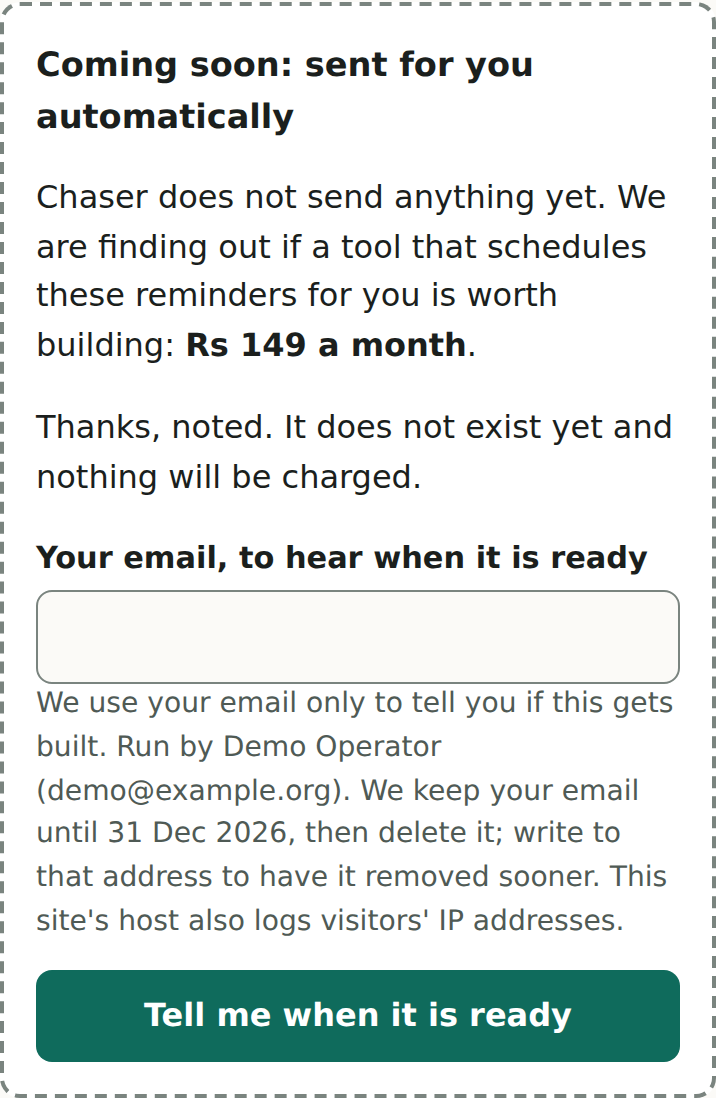
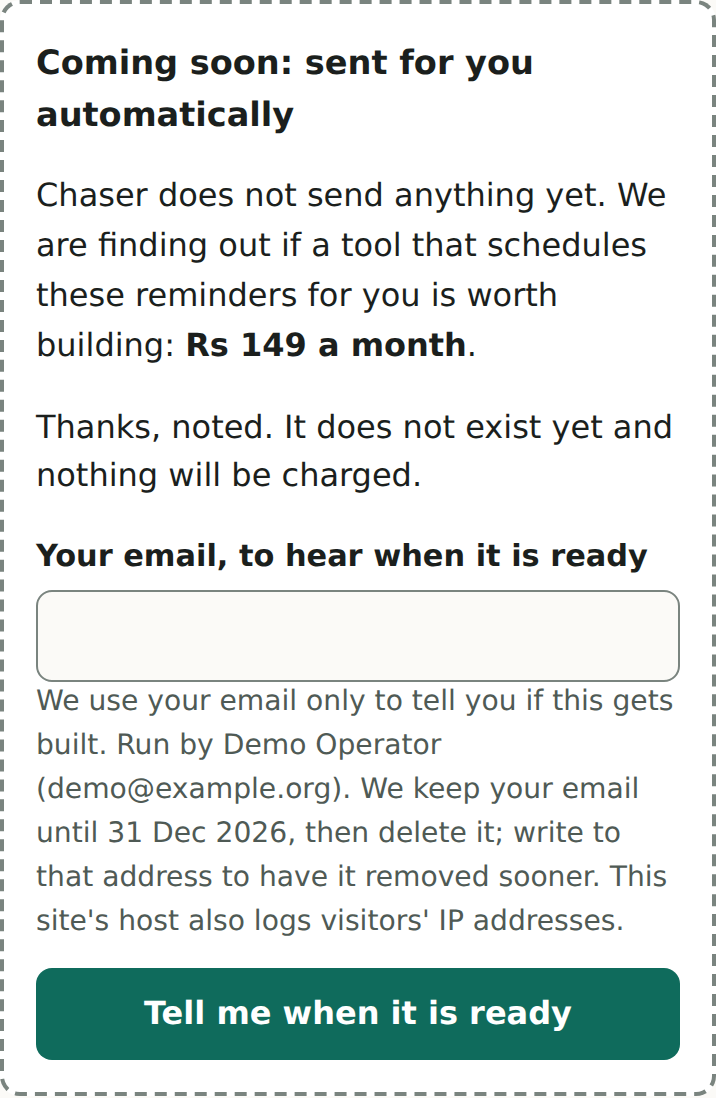
Chaser: designer pass, foundation and product gates closed (#8)
* chaser: foundation gates closed with evidence, product gates 8 of 9

Claude-Session: https://claude.ai/code/session_01KHRvdBp9dNMhM5LyW9cT2y

* chaser: before screenshots from the pre-critique build, for the designer pass

Claude-Session: https://claude.ai/code/session_01KHRvdBp9dNMhM5LyW9cT2y

* chaser: designer pass round two: rupee sign, copy email, focus after the paid-plan question, hint moved up

Claude-Session: https://claude.ai/code/session_01KHRvdBp9dNMhM5LyW9cT2y

* chaser: short-name greeting, Polite only when not yet due, confirm before replacing edits, suggested card first

Claude-Session: https://claude.ai/code/session_01KHRvdBp9dNMhM5LyW9cT2y

---------

diff --git a/examples/chaser/e2e/ui.e2e.js b/examples/chaser/e2e/ui.e2e.js
@@ -57,10 +57,10 @@ test("happy path: three messages with the right amount, dates and working send l
   const polite = await page.locator("#wa-polite").inputValue();
   assert.match(polite, /^Hi Ravi Traders,/);
   assert.match(polite, /Rs 1,25,000\.50/);
-  const href = await page.locator("article.msg").first().getByRole("link", { name: "Open in WhatsApp" }).getAttribute("href");
+  const href = await page.locator("article.msg:has(#wa-polite)").getByRole("link", { name: "Open in WhatsApp" }).getAttribute("href");
   assert.ok(href.startsWith("https://wa.me/?text="));
   assert.equal(decodeURIComponent(href.slice(20)), polite);
-  const link = page.locator("article.msg").first().getByRole("link", { name: "Open in WhatsApp" });
+  const link = page.locator("article.msg:has(#wa-polite)").getByRole("link", { name: "Open in WhatsApp" });
   assert.equal(await link.getAttribute("rel"), "noopener noreferrer");
   assert.equal(await link.getAttribute("target"), "_blank");
   assert.match(await page.locator("#wa-final").inputValue(), /pay further work|pause further work/);
@@ -74,11 +74,12 @@ test("results: the suggested message is marked, every message is fully visible, 
   await page.locator("#results").waitFor();
   assert.match(await page.locator("#summary").innerText(), /Suggested: start with Firm/);
   const cards = page.locator("article.msg");
-  assert.equal(await cards.nth(1).getAttribute("class"), "card msg suggested");
-  assert.equal(await cards.nth(1).locator(".tag").innerText(), "Suggested");
+  assert.equal(await cards.nth(0).getAttribute("class"), "card msg suggested", "the suggested message comes first");
+  assert.equal(await cards.nth(0).locator("textarea").getAttribute("id"), "wa-firm");
+  assert.equal(await cards.nth(0).locator(".tag").innerText(), "Suggested");
   assert.equal(await page.locator(".tag").count(), 1);
   assert.equal(await page.locator("article.msg a.btn:not(.quiet)").count() >= 1, true);
-  assert.equal(await cards.nth(0).getByRole("link", { name: "Open in WhatsApp" }).getAttribute("class"), "btn quiet");
+  assert.equal(await cards.nth(1).getByRole("link", { name: "Open in WhatsApp" }).getAttribute("class"), "btn quiet");
   for (const id of ["wa-polite", "wa-firm", "wa-final"]) {
     const clipped = await page.locator("#" + id).evaluate((t) => t.scrollHeight > t.clientHeight + 2);
     assert.equal(clipped, false, `${id} is cut off`);
@@ -101,8 +102,45 @@ test("editing a message updates its WhatsApp link", async () => {
   const { context, page } = await newPage();
   await generate(page);
   await page.locator("#wa-firm").fill("My own words, Rs 5 only");
-  const href = await page.locator("article.msg").nth(1).getByRole("link", { name: "Open in WhatsApp" }).getAttribute("href");
+  const href = await page.locator("article.msg:has(#wa-firm)").getByRole("link", { name: "Open in WhatsApp" }).getAttribute("href");
   assert.equal(decodeURIComponent(href.slice(20)), "My own words, Rs 5 only");
+  await context.close();
+});
+
+test("review fixes: a rupee sign is accepted, the email text can be copied, and focus moves to the answer after the paid-plan question", async () => {
+  const { context, page } = await newPage(open, { permissions: ["clipboard-read", "clipboard-write"] });
+  await generate(page, { amount: "\u20b925,000" });
+  assert.match(await page.locator("#check").innerText(), /Rs 25,000/);
+  const card = page.locator("article.msg:has(#wa-firm)");
+  await card.locator("summary").click();
+  await card.getByRole("button", { name: /Copy the firm email/ }).click();
+  const copied = await page.evaluate(() => navigator.clipboard.readText());
+  assert.match(copied, /^Subject: .+\n\n[\s\S]*Rs 25,000/);
+  await page.getByRole("button", { name: "I would pay for this" }).click();
+  assert.equal(await page.evaluate(() => document.activeElement?.id), "door-thanks");
+  await context.close();
+});
+
+test("review fixes 2: the greeting can use a short name; an invoice not yet due shows Polite and keeps the rest behind a button; edits are not replaced without asking", async () => {
+  const { context, page } = await newPage();
+  await generate(page, { call: "Ravi", due: shift(5) });
+  assert.match(await page.locator("#wa-polite").inputValue(), /^Hi Ravi,/);
+  assert.equal(await page.locator("#later").isHidden(), true, "firm and final wait behind a button");
+  assert.equal(await page.locator("article.msg:visible").count(), 1);
+  await page.getByRole("button", { name: "Show the firm and final messages" }).click();
+  assert.equal(await page.locator("article.msg:visible").count(), 3);
+  assert.equal(await page.evaluate(() => document.activeElement.tagName), "TEXTAREA");
+  // an edited message is not thrown away silently
+  await page.locator("#wa-polite").fill("My own words");
+  let asked = 0;
+  page.once("dialog", (d) => { asked++; d.dismiss(); });
+  await page.getByRole("button", { name: "Write my messages" }).click();
+  assert.equal(asked, 1);
+  assert.equal(await page.locator("#wa-polite").inputValue(), "My own words", "Cancel keeps the edit");
+  page.once("dialog", (d) => { asked++; d.accept(); });
+  await page.getByRole("button", { name: "Write my messages" }).click();
+  assert.equal(asked, 2);
+  assert.match(await page.locator("#wa-polite").inputValue(), /^Hi Ravi,/, "OK writes fresh messages");
   await context.close();
 });
 
@@ -244,7 +282,7 @@ test("only the keyboard: fill every field by typing, submit, reach copy and send
   const mdy = (iso) => { const [y, m, d] = iso.split("-"); return m + d + y; };
   await page.locator("#me").focus();
   const order = [];
-  for (const [id, text] of [["me", "Asha"], ["client", "Ravi"], ["amount", "5000"], ["invoice", ""], ["due", mdy(shift(-3))], ["deadline", mdy(shift(5))], ["pay", ""]]) {
+  for (const [id, text] of [["me", "Asha"], ["client", "Ravi"], ["call", ""], ["amount", "5000"], ["invoice", ""], ["due", mdy(shift(-3))], ["deadline", mdy(shift(5))], ["pay", ""]]) {
     assert.equal(await page.evaluate(() => document.activeElement.id), id, `focus should be on ${id}`);
     order.push(id);
     if (text) await page.keyboard.type(text);
@@ -252,7 +290,7 @@ test("only the keyboard: fill every field by typing, submit, reach copy and send
     // a date field has month, day and year parts: after typing all three, one more Tab leaves it
     if ((id === "due" || id === "deadline") && (await page.evaluate(() => document.activeElement.id)) === id) await page.keyboard.press("Tab");
   }
-  assert.deepEqual(order, ["me", "client", "amount", "invoice", "due", "deadline", "pay"]);
+  assert.deepEqual(order, ["me", "client", "call", "amount", "invoice", "due", "deadline", "pay"]);
   assert.equal(await page.evaluate(() => document.activeElement.textContent), "Write my messages");
   await page.keyboard.press("Enter");
   await page.locator("#results").waitFor();

diff --git a/examples/chaser/public/app.js b/examples/chaser/public/app.js
@@ -3,7 +3,7 @@ import { validateInput, generateMessages, whatsappLink, mailtoLink, formatRupees
 const $ = (id) => document.getElementById(id);
 const params = new URLSearchParams(location.search);
 const src = params.get("src") ?? undefined;
-const FIELDS = ["me", "client", "amount", "invoice", "due", "deadline", "pay"];
+const FIELDS = ["me", "client", "call", "amount", "invoice", "due", "deadline", "pay"];
 /** Which message fits today: a few days late, about two weeks late, or well past that. Only a suggestion. */
 const suggest = (days) => (days <= 0 ? "polite" : days <= 7 ? "polite" : days <= 21 ? "firm" : "final");
 const WHEN = {
@@ -75,6 +75,7 @@ $("form").addEventListener("submit", (e) => {
   const result = validateInput(readForm(), today);
   showErrors(result.errors);
   if (!result.ok) return;
+  if ($("messages").querySelector("textarea[data-edited]") && !confirm("Writing the messages again will replace the changes you made to them. Continue?")) return;
   render(result.value, today);
   track("generate");
 });
@@ -93,13 +94,21 @@ function render(v, today) {
   const label = out.messages.find((m) => m.tone === best).label;
   $("summary").textContent = out.overdue
     ? `This invoice is ${out.days} day${out.days === 1 ? "" : "s"} overdue (counted from today's date on your device). Suggested: start with ${label}.`
-    : "This invoice is not overdue yet, so the polite message fits best. Keep the firm and final ones for later.";
+    : "This invoice is not overdue yet, so the polite message fits best. The firm and final ones are below, for later.";
   const check = $("check"); check.textContent = "";
   const rows = [["Client", v.client], ["Amount", formatRupees(v.paise)], ["Due date", formatDate(v.due)], ["Pay-by date (final message)", formatDate(v.deadline)], ["Pay to", v.pay || "No payment details added"]];
   for (const [k, val] of rows) check.append(el("dt", { text: k }), el("dd", { text: val }));
 
   const box = $("messages"); box.textContent = "";
-  for (const m of out.messages) box.append(messageCard(m, m.tone === best));
+  // The suggested message comes first; when nothing is overdue the other two wait behind a button.
+  const ordered = [...out.messages.filter((m) => m.tone === best), ...out.messages.filter((m) => m.tone !== best)];
+  const later = out.overdue ? null : el("div", { id: "later", hidden: "" });
+  ordered.forEach((m, i) => (later && i > 0 ? later : box).append(messageCard(m, m.tone === best)));
+  if (later) {
+    const show = el("button", { type: "button", class: "secondary", "aria-controls": "later", "aria-expanded": "false", text: "Show the firm and final messages" });
+    show.addEventListener("click", () => { later.hidden = false; show.hidden = true; later.querySelector("textarea").focus(); });
+    box.append(show, later);
+  }
   const results = $("results"); results.hidden = false;
   results.focus(); results.scrollIntoView({ behavior: matchMedia("(prefers-reduced-motion: reduce)").matches ? "auto" : "smooth", block: "start" });
 }
@@ -109,7 +118,7 @@ function messageCard(m, suggested) {
   const ta = el("textarea", { id: `wa-${m.tone}`, "aria-label": `${m.label} message for WhatsApp, you can edit it`, spellcheck: "true" });
   ta.value = m.whatsapp;
   const wa = el("a", { class: suggested ? "btn" : "btn quiet", href: whatsappLink(m.whatsapp), target: "_blank", rel: "noopener noreferrer", text: "Open in WhatsApp" });
-  ta.addEventListener("input", () => { wa.href = whatsappLink(ta.value); grow(ta); });
+  ta.addEventListener("input", () => { wa.href = whatsappLink(ta.value); grow(ta); ta.dataset.edited = "1"; });
   const copy = el("button", { type: "button", class: "secondary", text: "Copy text" });
   const asked = el("p", { class: "sent", hidden: "" });
   const askSent = () => {
@@ -130,11 +139,17 @@ function messageCard(m, suggested) {
 
   const mail = el("a", { class: "btn", href: mailtoLink(m.email), text: "Open in email" });
   mail.addEventListener("click", () => { track("open_email", m.tone); askSent(); });
+  const copyMail = el("button", { type: "button", class: "secondary", text: "Copy email", "aria-label": `Copy the ${m.label.toLowerCase()} email, subject and text` });
+  copyMail.addEventListener("click", async () => {
+    try { await navigator.clipboard.writeText(`Subject: ${m.email.subject}\n\n${m.email.body}`); say(`${m.label} email copied.`); }
+    catch { say("Copying is blocked here. Select the email text and copy it with your keyboard."); }
+    track("copy", m.tone);
+  });
   const details = el("details", { class: "email" },
     el("summary", { text: "Email version" }),
     el("p", {}, el("strong", { text: "Subject: " }), m.email.subject),
     el("pre", { text: m.email.body }),
-    mail);
+    el("div", { class: "row" }, mail, copyMail));
   const card = el("article", { class: suggested ? "card msg suggested" : "card msg" },
     el("h3", {}, m.label, suggested ? el("span", { class: "tag", text: "Suggested" }) : "", el("span", { class: "when", text: WHEN[m.tone] })),
     ta, el("div", { class: "row" }, wa, copy), details, asked);
@@ -155,6 +170,7 @@ $("pay-intent").addEventListener("click", () => {
   } else {
     $("door-thanks").textContent = "Thanks, noted. It does not exist yet, and the email list is not open.";
   }
+  $("door-thanks").focus();
 });
 
 $("wl").addEventListener("submit", async (e) => {

diff --git a/examples/chaser/public/index.html b/examples/chaser/public/index.html
@@ -34,6 +34,12 @@
         <p class="err" id="client-err"></p>
       </div>
       <div class="field">
+        <label for="call">What you call them <span class="opt">(optional)</span></label>
+        <input id="call" name="call" type="text" autocomplete="off" maxlength="30" aria-describedby="call-hint call-err">
+        <p class="hint" id="call-hint">The greeting uses this, for example Ravi. Leave it empty to greet them by the full name above.</p>
+        <p class="err" id="call-err"></p>
+      </div>
+      <div class="field">
         <label for="amount">Amount (Rs)</label>
         <input id="amount" name="amount" type="text" inputmode="decimal" autocomplete="off" required aria-describedby="amount-hint amount-err">
         <p class="hint" id="amount-hint">For example 25000 or 1,25,000.50. Type the amount still owed.</p>
@@ -68,6 +74,7 @@
   <section id="results" class="results" aria-labelledby="results-h" tabindex="-1" hidden>
     <h2 id="results-h">Your messages</h2>
     <p id="summary" class="summary"></p>
+    <p class="hint after">Edit any message before you send it, and change anything that is not true for you. WhatsApp will ask you to pick the contact. Message only people you already work with.</p>
     <div class="check card" aria-labelledby="check-h">
       <h3 id="check-h">Check before you send</h3>
       <dl id="check"></dl>
@@ -75,14 +82,13 @@
     </div>
     <div id="messages"></div>
     <p id="live" class="sr-only" role="status" aria-live="polite"></p>
-    <p class="hint after">WhatsApp will ask you to pick the contact. Message only people you already work with.</p>
 
     <aside id="door" class="card door" aria-labelledby="door-h">
       <h3 id="door-h">Coming soon: sent for you automatically</h3>
       <p>Chaser does not send anything yet. We are finding out if a tool that schedules these reminders for you is worth building: <strong id="price">Rs 149 a month</strong>.</p>
       <button type="button" id="pay-intent" class="secondary">I would pay for this</button>
       <div id="door-2" hidden>
-        <p id="door-thanks"></p>
+        <p id="door-thanks" tabindex="-1"></p>
         <form id="wl" novalidate autocomplete="off" hidden>
           <div class="field">
             <label for="email">Your email, to hear when it is ready</label>

diff --git a/examples/chaser/tests/core.test.js b/examples/chaser/tests/core.test.js
@@ -17,6 +17,7 @@ const text = (r) => r.messages.map((m) => `${m.whatsapp}\n${m.email.subject}\n${
 test("amounts: Indian grouping at every size, decimals only when typed", () => {
   const cases = [["1", "Rs 1"], ["999", "Rs 999"], ["1000", "Rs 1,000"], ["25000", "Rs 25,000"], ["125000", "Rs 1,25,000"],
     ["1,25,000.50", "Rs 1,25,000.50"], ["12345678", "Rs 1,23,45,678"], ["1000000000", "Rs 1,00,00,00,000"], ["0.5", "Rs 0.50"], ["Rs 5000", "Rs 5,000"]];
+  cases.push(["₹25,000", "Rs 25,000"], ["₹ 1,25,000.50", "Rs 1,25,000.50"]);
   for (const [input, want] of cases) assert.equal(formatRupees(parseAmountToPaise(input)), want, input);
 });
 
@@ -148,4 +149,13 @@ test("generating messages makes no network call and reads no browser state (pure
   const saved = { fetch: globalThis.fetch };
   globalThis.fetch = () => { throw new Error("network call during generation"); };
   try { gen(); } finally { globalThis.fetch = saved.fetch; }
+});
+
+test("greeting: uses 'what you call them' when given, the full client name otherwise, and the optional field is length-checked", () => {
+  assert.match(gen({ call: "Ravi" }).messages[0].whatsapp, /^Hi Ravi,\n/);
+  assert.match(gen({ call: "Ravi" }).messages[0].email.body, /^Dear Ravi,\n/);
+  assert.match(gen({ call: "  " }).messages[0].whatsapp, /^Hi Ravi Traders,\n/);
+  assert.match(gen().messages[2].whatsapp, /^Hi Ravi Traders,\n/);
+  assert.equal(validateInput({ ...base, call: "x".repeat(31) }, TODAY).ok, false);
+  assert.equal(validateInput({ ...base, call: "Ra\nvi" }, TODAY).ok, false);
 });

diff --git a/examples/chaser/src/core/format.js b/examples/chaser/src/core/format.js
@@ -5,7 +5,7 @@ export const MAX_RUPEES = 1_000_000_000; // Rs 100 crore
 /** "1,25,000.50" or "125000" -> amount in paise (integer), or null when not a valid positive amount. */
 export function parseAmountToPaise(text) {
   if (typeof text !== "string") return null;
-  const t = text.trim().replace(/^(rs\.?|inr)\s*/i, "");
+  const t = text.trim().replace(/^(₹|rs\.?|inr)\s*/i, "");
   if (!/^\d{1,3}(,\d{2,3})*(\.\d{1,2})?$|^\d+(\.\d{1,2})?$/.test(t)) return null;
   const [whole, frac = ""] = t.replace(/,/g, "").split(".");
   const paise = Number(whole) * 100 + Number(frac.padEnd(2, "0"));

diff --git a/examples/chaser/src/core/messages.js b/examples/chaser/src/core/messages.js
@@ -31,7 +31,7 @@ export function generateMessages(v, today) {
   const when = overdue ? `which was due on ${due}` : days === 0 ? `which is due today (${due})` : `which is due on ${due}`;
   const ago = overdue ? ` (${days} day${days === 1 ? "" : "s"} ago)` : "";
   const sign = v.me;
-  const hi = `Hi ${v.client},`;
+  const hi = `Hi ${v.call || v.client},`; // "what you call them" is optional; the full client name is the default
 
   const polite = {
     wa: lines(

diff --git a/examples/chaser/public/styles.css b/examples/chaser/public/styles.css
@@ -57,3 +57,6 @@ details.email { margin-top: 10px; } details.email summary { cursor: pointer; fon
 @media (max-width: 380px) { .wrap { padding: 0 12px; } }
 #results:focus { outline: none; }
 @media (prefers-reduced-motion: no-preference) { button, a.btn { transition: filter .12s, background .12s; } }
+
+#errors a { color: var(--error); }
+#door-thanks:focus { outline: none; }

diff --git a/examples/chaser/src/core/validate.js b/examples/chaser/src/core/validate.js
@@ -20,6 +20,7 @@ export function validateInput(raw, today) {
   const value = {
     me: text("me", "your name", 60),
     client: text("client", "the client's name", 60),
+    call: text("call", "what you call them", 30, false),
     invoice: text("invoice", "the invoice number", 30, false),
     pay: text("pay", "a UPI ID or payment link", 120, false),
   };

diff --git a/examples/chaser/docs/design-critique.md b/examples/chaser/docs/design-critique.md
@@ -19,3 +19,26 @@ Reviewer: a fresh read-only subagent that did not build the page. It saw screens
 **Kept as is** (reviewer's "works" list): the headline and lede, plain "Rs" and Indian grouping, the single-column phone form with 46px inputs and visible labels, the error summary with jump links, the check block placed before the messages, the copy fallback, the honest "Chaser does not send anything yet" door copy.
 
 **Not checked by anyone:** real Android rendering and fonts, Devanagari and other Unicode names, the native Android date picker, the keyboard overlay, actual WhatsApp and mailto behaviour, the 200% zoom layout, hover states, load time. The automated checks (axe in light and dark, 375px width, 44px targets, keyboard-only path) passed after the changes.
+
+## Designer pass on the running page (second round, 2026-10-20)
+
+Evidence: `docs/screenshots/before/` (the build before the first critique, regenerated from commit 602c5f1) against `docs/screenshots/` (now). Two fresh read-only reviewers, neither of whom built the page. Their reports are findings, not instructions.
+
+**5-second test** (reviewer saw only the two first-screen screenshots). Got right: it turns one unpaid invoice into three reminders for WhatsApp and email, for freelancers in India. Hesitations: the privacy box asks for trust before any payoff; "send yourself" can read as "send to yourself"; the sample quote looks like a quotation, not example output; no button or preview of the three tones on the first screen. Not changed: the button sits below the form on purpose, and the date field format follows the visitor's browser (the screenshots use a US locale).
+
+**10-problem review** (reviewer drove the running page at 1100px and 375px, light and dark):
+
+| # | Finding | Status |
+|---|---|---|
+| 1 | Greeting uses the full client name ("Hi Ravi Kumar"), sample says "Hi Ravi" | **Fixed.** A first-word greeting would break on "Dr Rao" and company names, so there is a new optional field "What you call them"; empty means the full name as before (unit and browser tests) |
+| 2 | The rupee sign was rejected; a bare phone number is not a valid UPI ID | **Half fixed.** The rupee sign is now accepted (test added). The phone-number hint is open |
+| 3 | Email version could not be copied | **Fixed.** "Copy email" copies subject and text (browser test added) |
+| 4 | Fixed wording; "pause further work" is wrong if work is finished | **Mitigated.** Line added above the cards: edit anything that is not true for you. A "work is ongoing" switch is open |
+| 5 | Invoice not yet due still shows Firm and Final cards | **Fixed.** Not overdue: only Polite is shown, the other two wait behind "Show the firm and final messages" (browser test) |
+| 6 | Writing the messages again silently overwrites edits | **Fixed.** Writing again asks before replacing edited text; Cancel keeps the edits (browser test) |
+| 7 | Error summary duplicates inline errors, uses default link colours | **Half fixed.** Links now use the theme error colour. Duplication kept: the summary is how a screen reader and keyboard user finds the first error |
+| 8 | Focus lost to the page after "I would pay for this" | **Fixed.** Focus moves to the confirmation (browser test added) |
+| 9 | "Pick the contact" hint far from the buttons | **Fixed.** Moved under the summary, before the cards |
+| 10 | On a phone the suggested card is second, results start far down | **Fixed.** The suggested card comes first (browser test) |
+
+After the first round: 39 of 39 unit tests, 18 of 18 browser tests (axe included, light and dark) pass. Second round (findings 1, 5, 6, 10 above): 40 of 40 unit tests, 19 of 19 browser tests, and the mutation check kills every mutant. Still open: the phone-number UPI hint (2), a "work is ongoing" switch (4), and the summary/inline error duplication (7, kept on purpose).

diff --git a/examples/chaser/CLAUDE.md b/examples/chaser/CLAUDE.md
@@ -29,4 +29,4 @@ Tenancy: none (no accounts, no stored client data).
 `docs/research.md`, `docs/system-design.md`, `docs/architecture.md`, `docs/design-review.md`, `docs/decisions/`. Raw research briefs: `docs/research-raw/`.
 
 ## Pipeline
-Phase state: `.hyperskill/state.json` (not committed); `/hyperskill` resumes. Current phase: plan.
+Phase state: `.hyperskill/state.json` (not committed); `/hyperskill` resumes. Current phase: product (foundation closed; designer-pass still open, see docs/design-critique.md).
